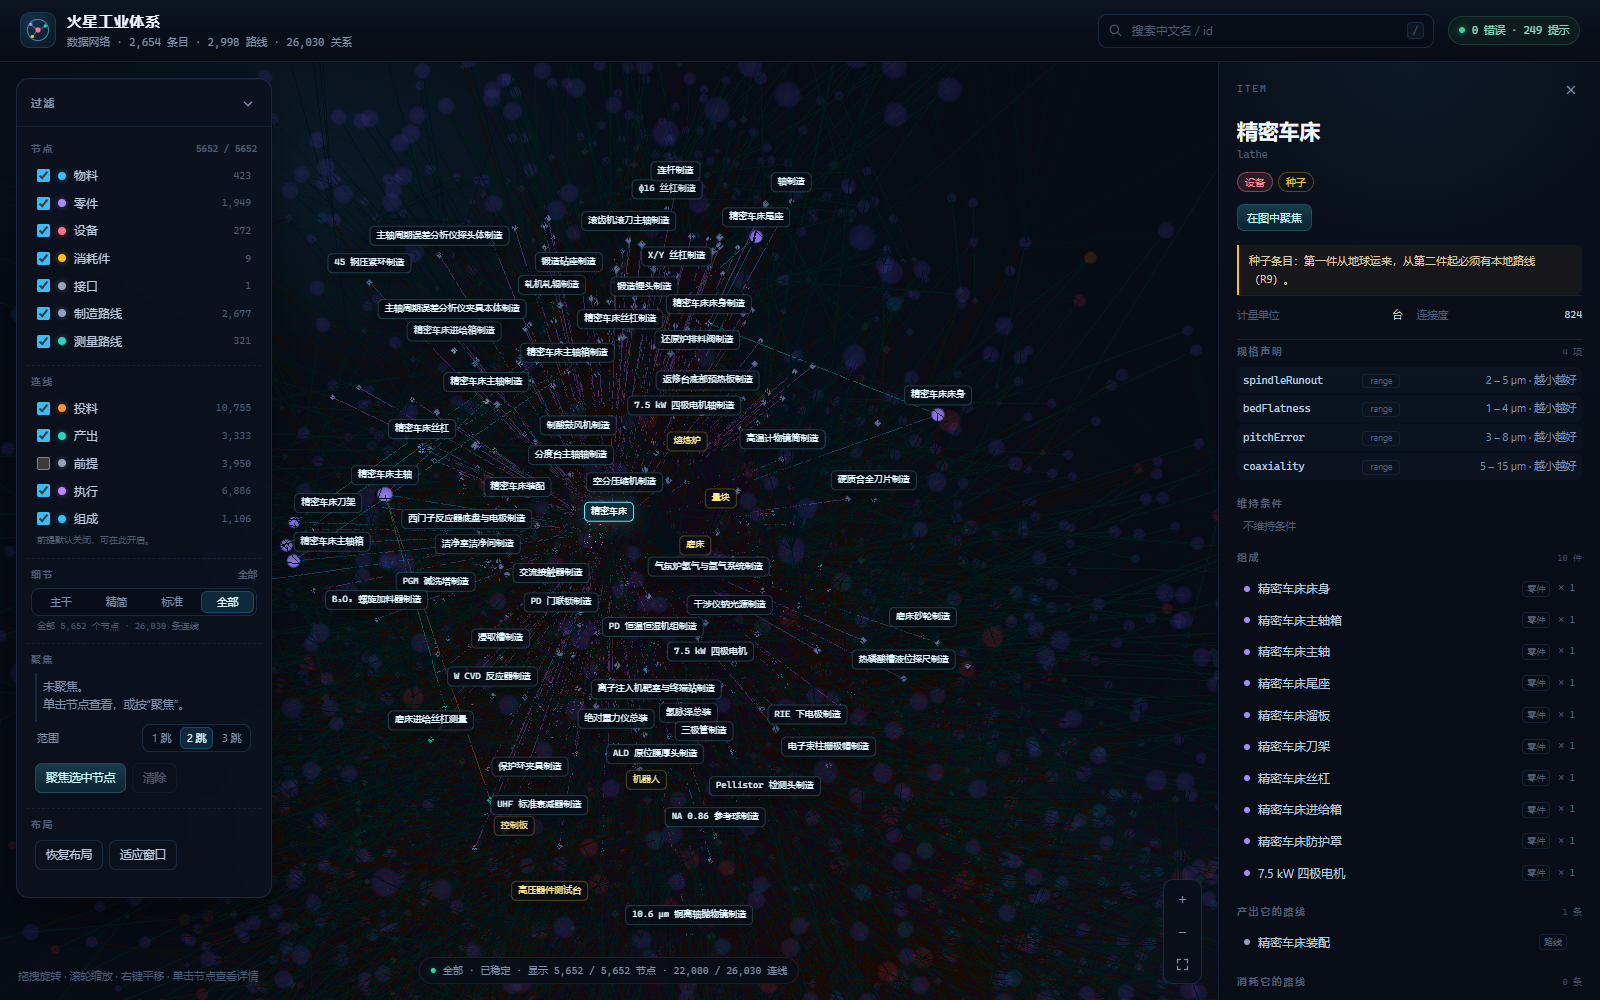
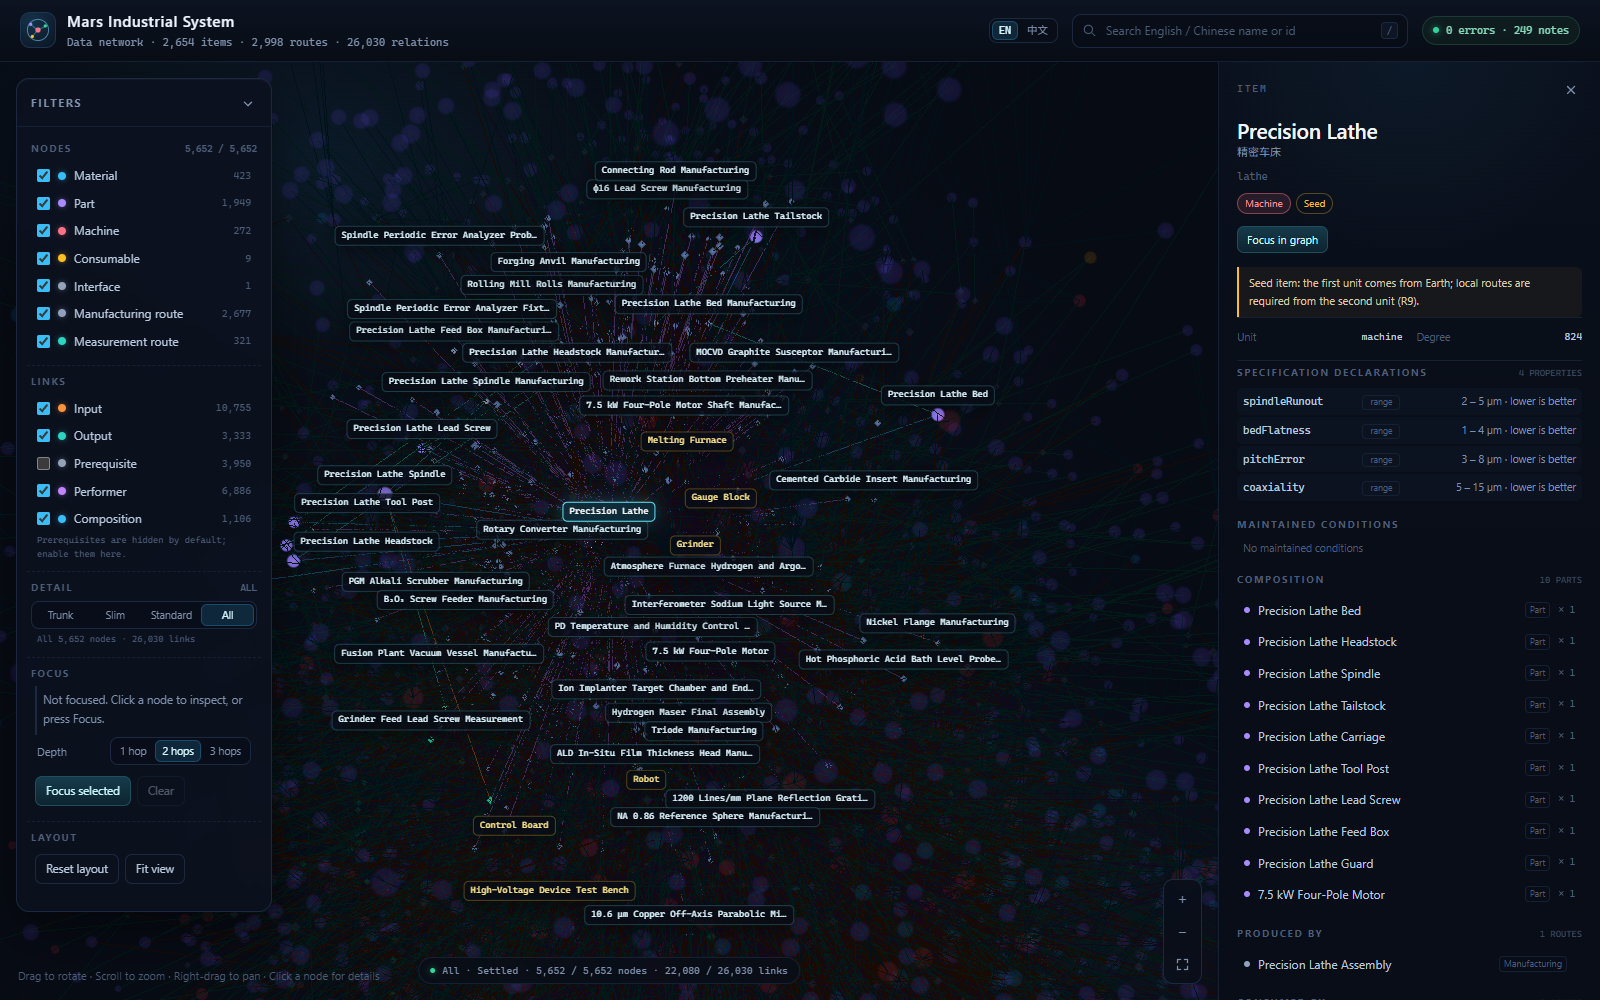
docs: document bilingual names and viewer

diff --git a/docs/model.md b/docs/model.md
@@ -30,7 +30,8 @@ Qty         = { num, den }
 | Description | `routes` | `Route[]` | Route table |
 | Description | `ambient` | `Condition[]` | On-site environmental conditions; equipment is not needed while inside the interval |
 | Item | `id` | `string` | Unique identifier |
-| Item | `name` | `string` | Display name (Chinese); for humans only, not used in decisions; duplicates allowed |
+| Item | `name` | `string` | Display name (English); for humans only, not used in decisions; duplicates allowed; must not contain Chinese characters |
+| Item | `name_zh` | `string` | Display name (Chinese); retained for the Chinese UI and search |
 | Item | `category` | `ItemCategory` | `material` / `part` / `consumable` / `carrier` / `machine`; defaults to `material` |
 | Item | `unit` | `string` | Unit of measure: piece, unit, set, etc. |
 | Item | `mass` | `Qty` | Mass per piece, in kg |
@@ -52,7 +53,8 @@ Qty         = { num, den }
 | Consumption | `qty` | `Qty` | Amount used per `per` hours |
 | Consumption | `per` | `Qty` | Operating hours |
 | Route | `id` | `string` | Unique identifier |
-| Route | `name` | `string` | Display name (Chinese); for humans only, not used in decisions; duplicates allowed |
+| Route | `name` | `string` | Display name (English); for humans only, not used in decisions; duplicates allowed; must not contain Chinese characters |
+| Route | `name_zh` | `string` | Display name (Chinese); retained for the Chinese UI and search |
 | Route | `produces` | `Term[]` | Output terms; `produces[0].qty` defines the batch output |
 | Route | `uses` | `Clause[]` | Consumption per batch; clauses are AND, options within a clause are OR |
 | Route | `needs` | `Need[]` | Prerequisites that must exist but are not consumed |
@@ -83,8 +85,8 @@ Qty         = { num, den }
 `Need` is `string | Option`: a string means "at least one present"; `Option` may additionally carry a quantity and a spec window.
 `Option.qty` means consumption in `uses` and a minimum on-hand quantity in `needs`.
 
-`name` is the display name and `id` is identity: renaming does not affect references, and the id must not change when the name changes.
-`validate` rejects only empty names; it does not require names to be unique.
+`name` is the English display name, `name_zh` is the Chinese display name, and `id` is identity: renaming does not affect references, and the id must not change when the name changes.
+`validate` rejects empty `name` / `name_zh` and `name` values containing Chinese characters; it does not require names to be unique.
 
 `PropDecl` `range` uses `min` / `max` / `unit` / `dir`; `enum` / `set` use `values`.
 The corresponding `PropReq` window uses `min` / `max` / `dir`, `oneOf`, `atLeast`, and may carry `record` / `design`.

diff --git a/README.zh.md b/README.zh.md
@@ -6,11 +6,13 @@
 
 **关键词：** 火星工业 · 原位资源利用（ISRU） · 自复制机器 · 工业生态 · 制造 BOM · 物料配平 · 工艺链 · TypeScript
 
-![火星工业体系模型视图](docs/images/viewer-overview.png)
+![火星工业体系模型视图](docs/images/viewer-overview-zh.png)
 
-*浏览器视图（`pnpm viewer`）：左侧按类别与连线过滤，右侧查看条目、规格与组成。*
+*浏览器视图（`pnpm viewer`）：左侧按类别与连线过滤，右侧查看条目、规格与组成；默认英文，可切到中文。*
 
 **在线视图：** https://zhuyu1997.github.io/mars-industrial-system/
+
+视图支持中英文：用页头的 EN / 中文 切换，或在 URL 后加 `?lang=en` / `?lang=zh`。
 
 ## 一、项目定义
 
@@ -67,7 +69,7 @@
 pnpm typecheck                 # 类型检查
 pnpm stats                     # 数据统计：规模、条目、路线、属性、引用密度、孤儿
 pnpm test                      # 测试文件
-pnpm viewer                    # 浏览器视图：3D 网、中文名、搜索与过滤
+pnpm viewer                    # 浏览器视图：3D 网、中英文名、搜索与过滤
 
 node tools/audit.ts            # 闸门
 node tools/audit.ts --json     # 闸门，结构化输出
@@ -94,9 +96,9 @@ node tools/query.ts items 'plant/robot/*' --ids    # 通配 + 只输出 id
 共用同一份快照；机器格式为 `--json`、`--ndjson`、`--ids`、`--count`，`--out` 写 UTF-8 文件。
 退出码：0 = 执行成功（含 0 条）；1 = `--fail-if-empty` 且 0 条；2 = 用法错、id 不存在或模型校验失败。
 
-![条目详情](docs/images/viewer-item-detail.png)
+![条目详情](docs/images/viewer-item-detail-zh.png)
 
-*条目详情：中文名、规格声明、组成清单与上下游路线。*
+*条目详情：中文名、英文名副标题、规格声明、组成清单与上下游路线。*
 
 ## 五、审计口径
 

diff --git a/README.md b/README.md
@@ -10,9 +10,11 @@ This is the English translation of [README.zh.md](README.zh.md). The Chinese ver
 
 ![Mars industrial model view](docs/images/viewer-overview.png)
 
-*Browser view (`pnpm viewer`): filter nodes and links on the left; inspect items, specs, and composition on the right.*
+*Browser view (`pnpm viewer`, English by default): filter nodes and links on the left; inspect items, specs, and composition on the right. Chinese names are kept as subtitles.*
 
 **Live viewer:** https://zhuyu1997.github.io/mars-industrial-system/
+
+The viewer is bilingual: use the EN / 中文 switch in the header, or append `?lang=zh` to the URL.
 
 ## 1. Project Definition
 
@@ -60,7 +62,7 @@ Use these terms according to the evidence level. Writing "closed" requires the c
 pnpm typecheck                 # type check
 pnpm stats                     # data statistics: scale, items, routes, props, reference density, orphans
 pnpm test                      # tests
-pnpm viewer                    # browser view: 3D graph, Chinese names, search and filters
+pnpm viewer                    # browser view: 3D graph, English/Chinese names, search and filters
 
 node tools/audit.ts            # gate
 node tools/audit.ts --json     # gate, structured output
@@ -86,7 +88,7 @@ Queries are read-only: state, strict delivery windows, and `kept` come from the 
 
 ![Item detail](docs/images/viewer-item-detail.png)
 
-*Item detail: Chinese name, declared specs, composition, and upstream/downstream routes.*
+*Item detail: English name with Chinese subtitle, declared specs, composition, and upstream/downstream routes.*
 
 ## 5. Audit Criteria
 
